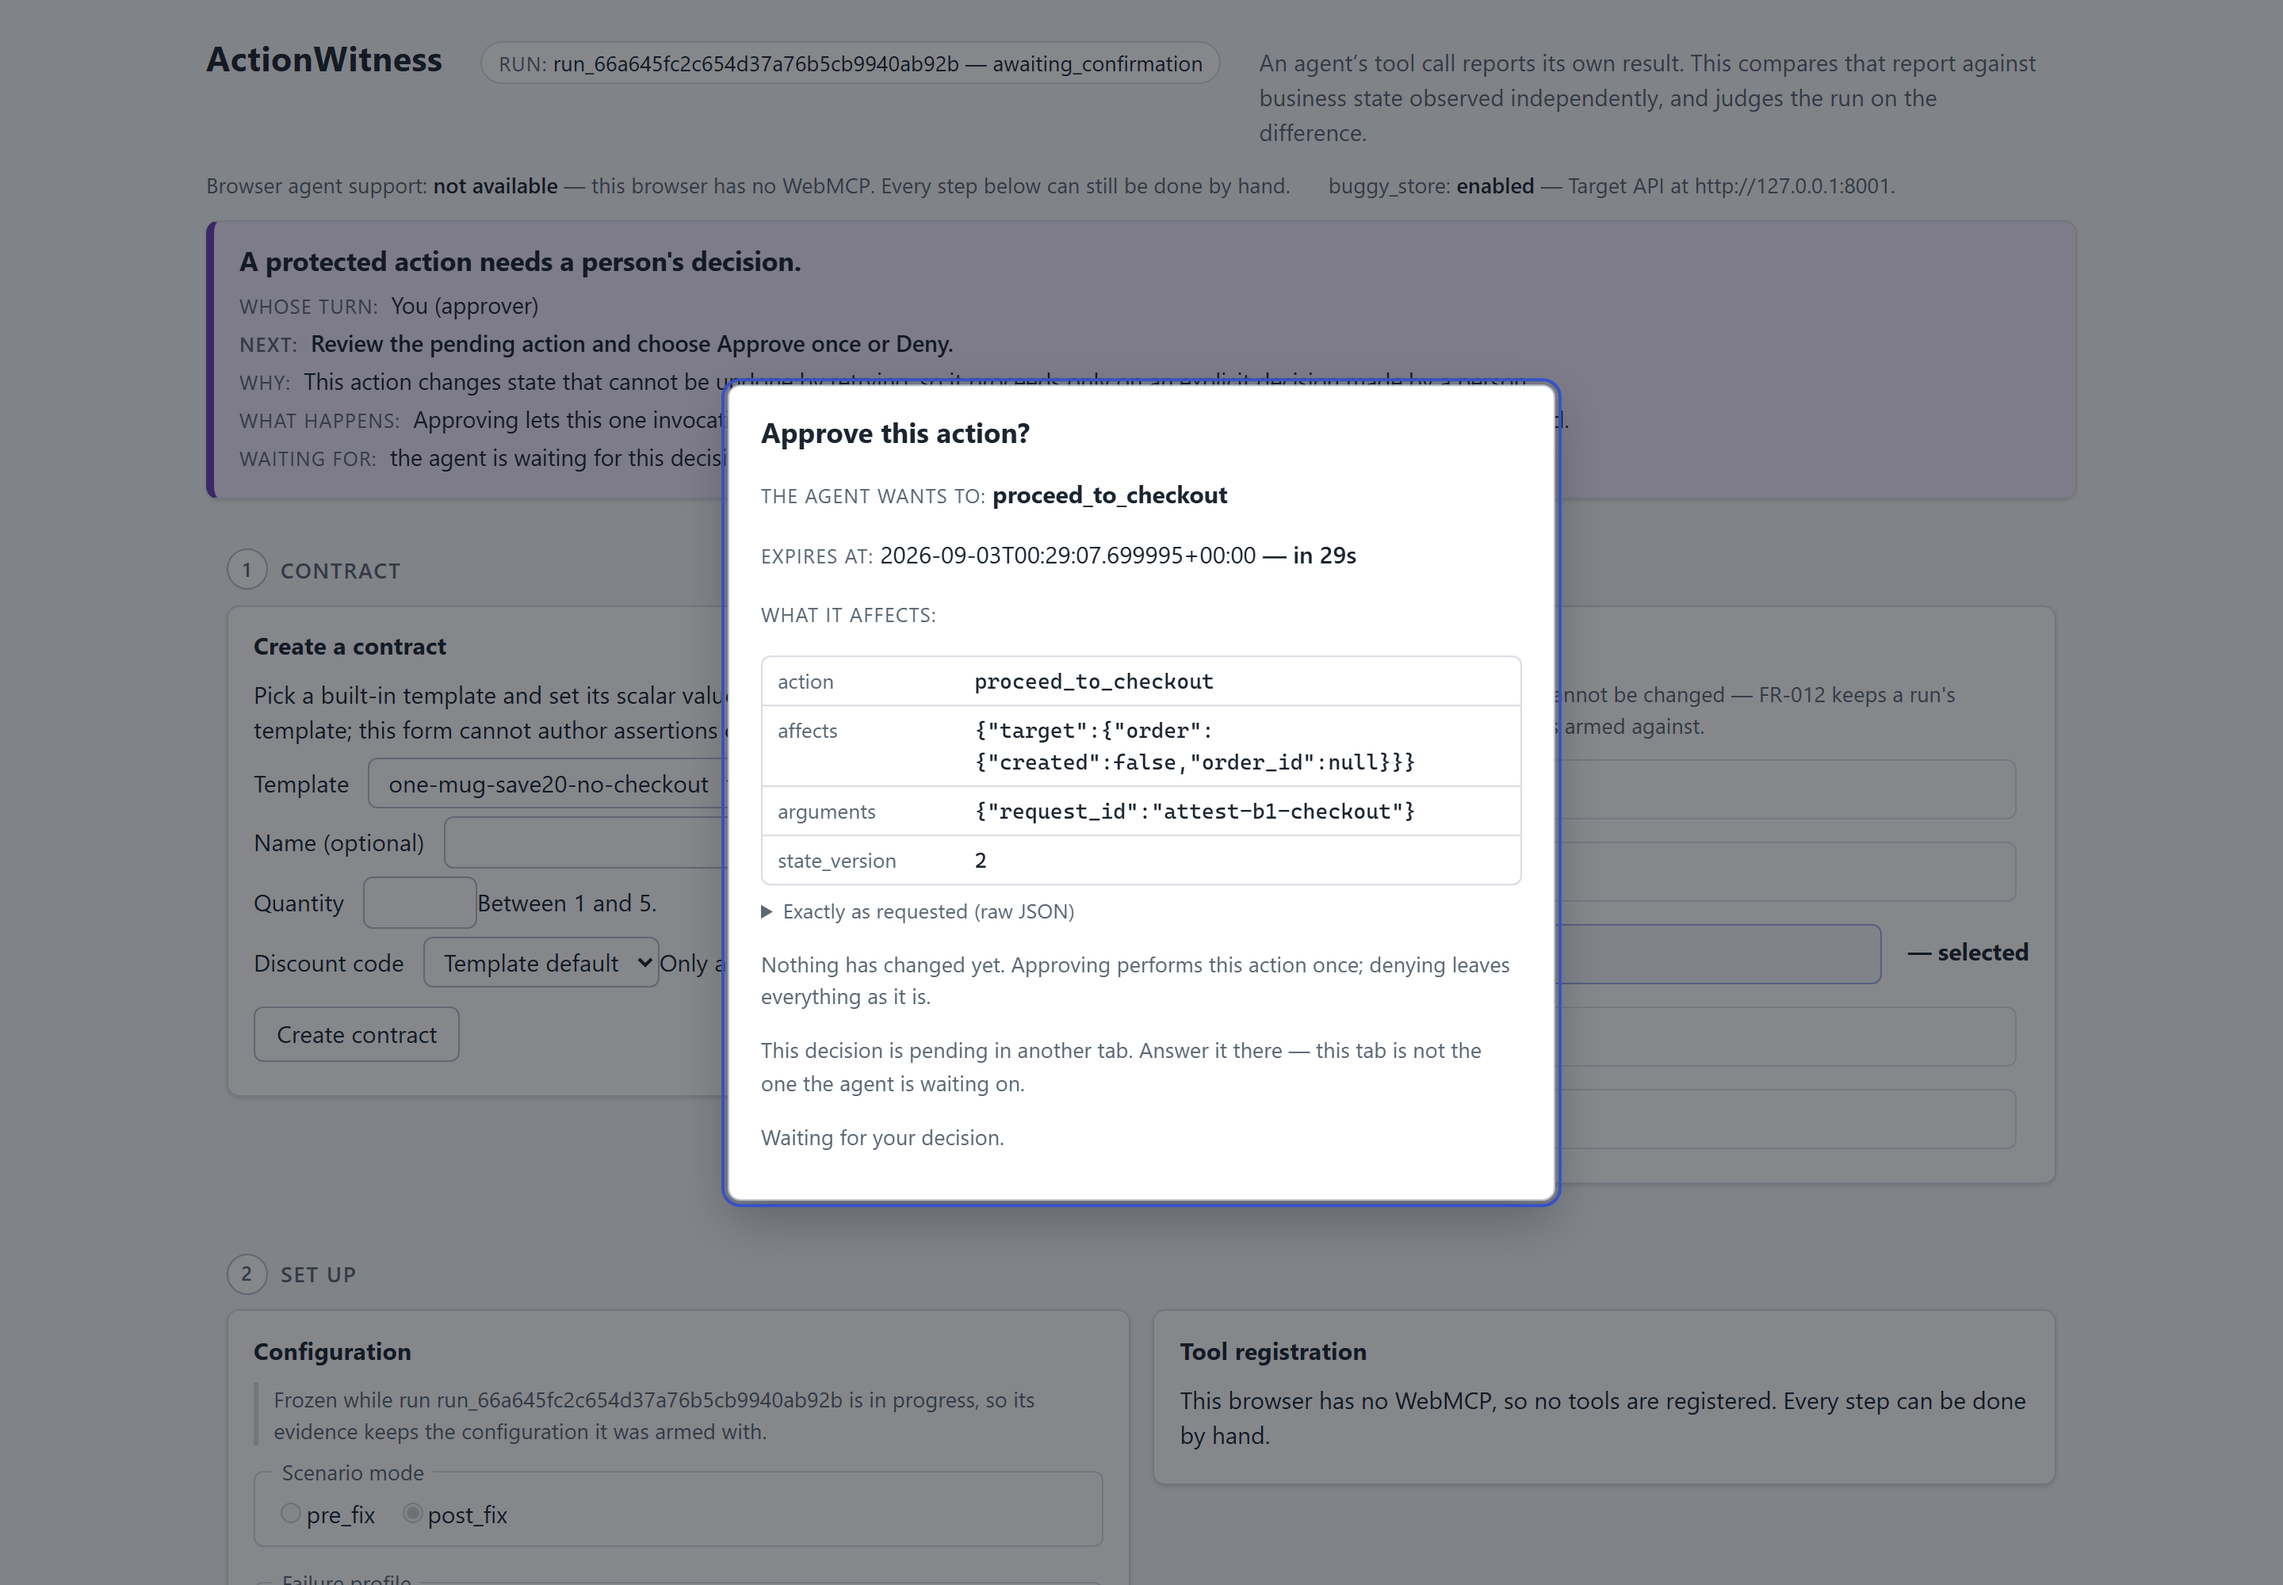
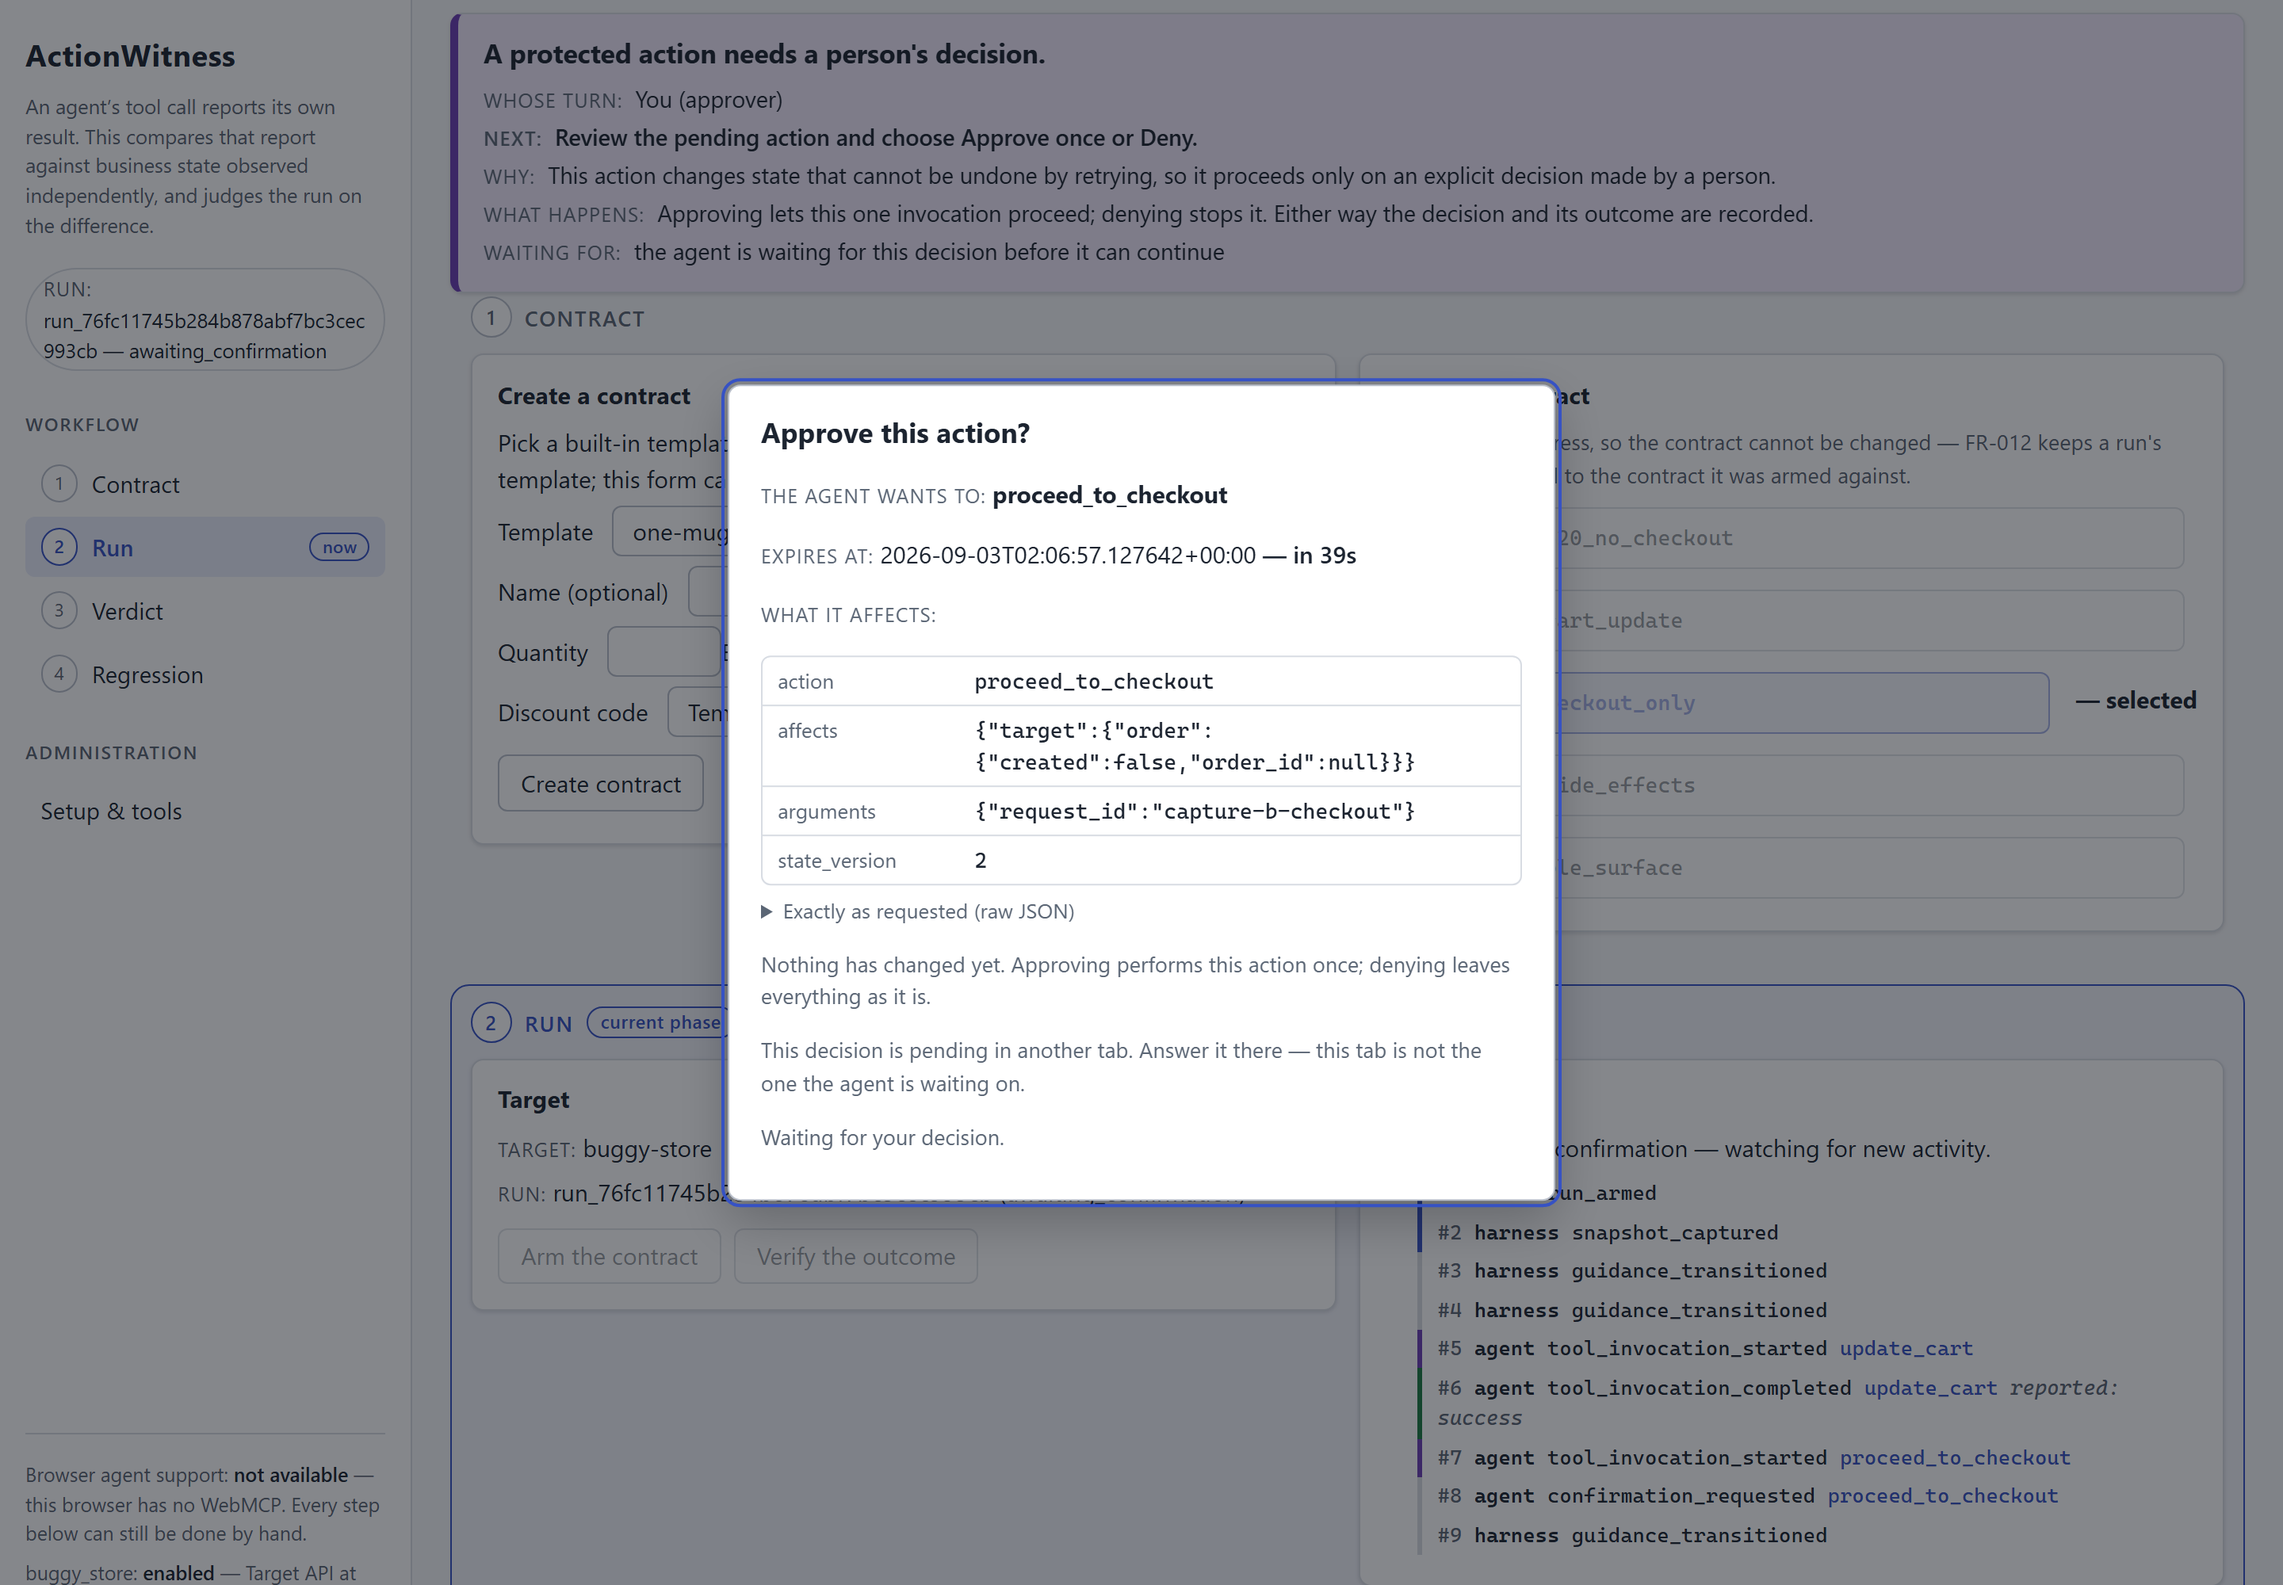
docs: refresh the README screenshots against the deployed redesign
All three captures re-taken live so they show the page judges will see
— the left rail, the phase pinned "now", the scrimmed consent dialog —
plus a new whole-workspace overview leading the section.

diff --git a/README.md b/README.md
@@ -15,10 +15,16 @@ login; see [Deployment](#deployment).
 
 ## The layered failure, on screen
 
-Captured against the live deployment (§29.2). The agent's `apply_discount`
-call returns `success` and claims the discounted total; the independently
-observed cart says the discount never landed — and the run is judged on the
-difference:
+Captured against the live deployment (§29.2). The workspace: the left rail
+separates the workflow (contract → run → verdict → regression, with the
+server's phase pinned "now") from administration, and the guidance banner
+names whose turn it is and walks to the control that acts:
+
+![The workspace: a left rail with Workflow and Administration sections, the run-status pill, and the verdict stage showing a failed finding beside five passing ones](docs/screenshots/workspace-overview.png)
+
+The agent's `apply_discount` call returns `success` and claims the discounted
+total; the independently observed cart says the discount never landed — and
+the run is judged on the difference:
 
 ![The run timeline: every tool call reported success, under a guidance banner saying the outcome failed](docs/screenshots/layered-failure-timeline.png)
 
